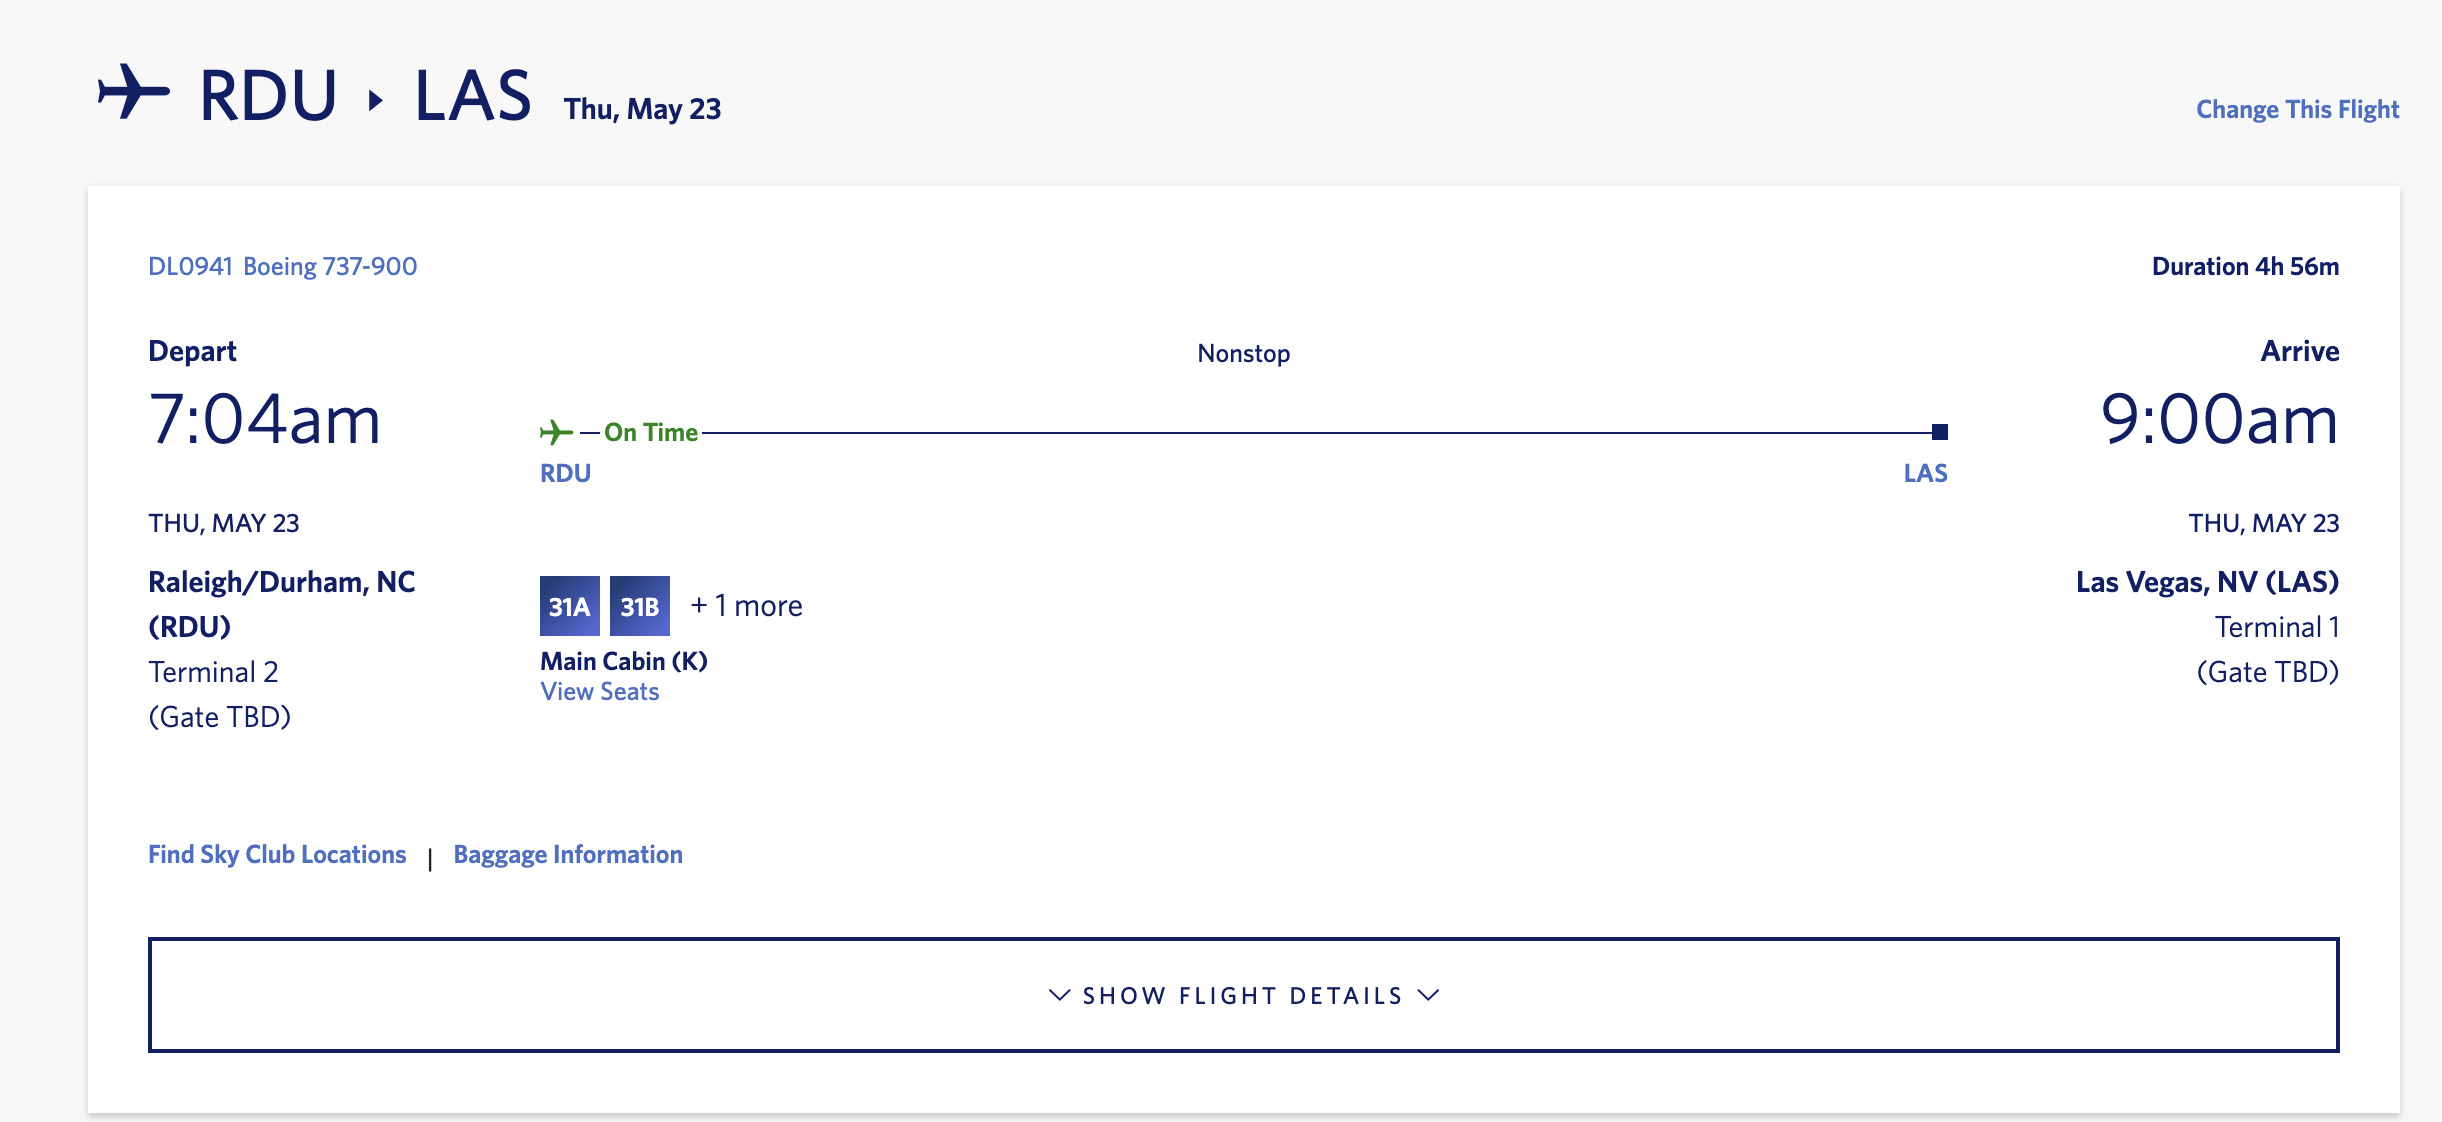
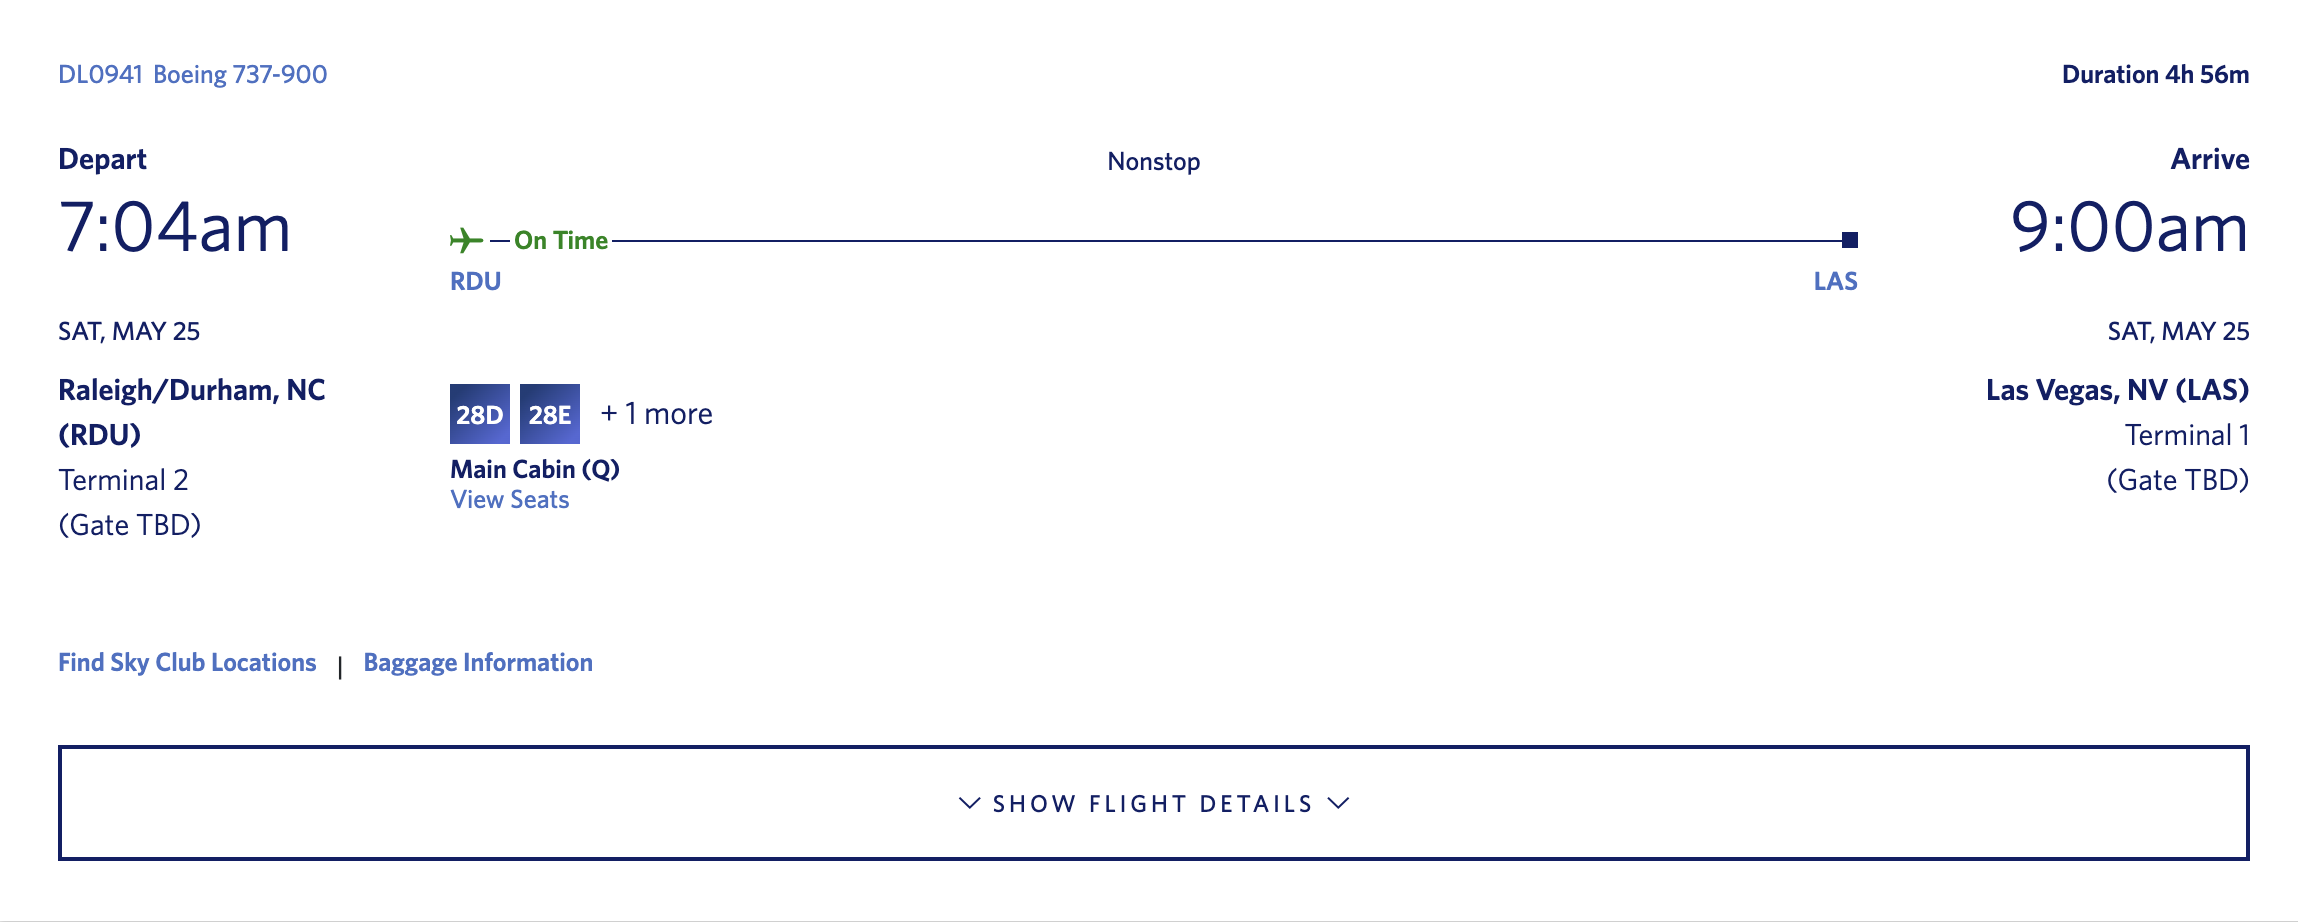
to-book

diff --git a/city/US_May_2024/index.html b/city/US_May_2024/index.html
@@ -162,14 +162,14 @@
       "2024-05-18": ["华尔街", "时代广场", "<a href=\"0518Dinner.png\">6:00 PM 53 餐馆</a>", "<a href=\"0515.png\">🏨 纽约时代广场希尔顿天宝酒店</a>"],
       "2024-05-19": ["<a href=\"LGA-RDU.png\">✈ 纽约 - 达勒姆 AA 1934</a><br>19:00 PM - 20:45 PM<br>座位 随机", "<a href=\"0519.png\">🏨 AC 达勒姆酒店</a>"],
       "2024-05-20": ["耳鼻喉科<br>11:00 AM - 12:00 PM", "听力测试<br>12:00 PM - 13:00 PM", "<a href=\"0519.png\">🏨 AC 达勒姆酒店</a>"],
-      "2024-05-21": ["博士口语考试<br>19:00 PM - 20:00 PM", "<a href=\"0519.png\">🏨 AC 达勒姆酒店</a>"],
-      "2024-05-22": ["耳鼻喉科<br>10:15 AM - 11:15 AM", "<a href=\"0519.png\">🏨 AC 达勒姆酒店</a>"],
-      "2024-05-23": ["<a href=\"RDU-LAS.png\">✈ 达勒姆 - 拉斯维加斯 DL 0941</a><br>7:04 AM - 9:00 AM<br>座位 31A 31B 31C", "<a href=\"0523.png\">🏨 拉斯维加斯名胜世界康莱德酒店</a>"],
-      "2024-05-24": ["待定", "<a href=\"0523.png\">🏨 拉斯维加斯名胜世界康莱德酒店</a>"],
-      "2024-05-25": ["待定", "<a href=\"0523.png\">🏨 拉斯维加斯名胜世界康莱德酒店</a>"],
-      "2024-05-26": ["待定", "<a href=\"0523.png\">🏨 拉斯维加斯名胜世界康莱德酒店</a>"],
-      "2024-05-27": ["待定", "<a href=\"0523.png\">🏨 拉斯维加斯名胜世界康莱德酒店</a>"],
-      "2024-05-28": ["<a href=\"LAS-IAD.png\">✈ 拉斯维加斯 - 华盛顿特区 UA 1961</a><br>13:15 PM - 20:52 PM<br>座位 27A 27B 27C", "<a href=\"0509.png\">🏨 喜来登瑞诗顿酒店<br>Sheraton Reston Hotel</a>"],
+      "2024-05-21": ["妇科门诊 13:00 PM", "博士口语考试<br>19:00 PM - 20:00 PM", "待定酒店 10108 McQueen Drive"],
+      "2024-05-22": ["耳鼻喉科<br>10:15 AM - 11:15 AM", "待定酒店 10108 McQueen Drive"],
+      "2024-05-23": ["待定酒店 10108 McQueen Drive"],
+      "2024-05-24": ["待定酒店 10108 McQueen Drive"],
+      "2024-05-25": ["<a href=\"RDU-LAS.png\">✈ 达勒姆 - 拉斯维加斯 DL 0941</a><br>7:04 AM - 9:00 AM<br>座位 31A 31B 31C", "待定酒店 10108 McQueen Drive"],
+      "2024-05-26": ["待定酒店 Las Vegas Strip"],
+      "2024-05-27": ["待定酒店 Las Vegas Strip"],
+      "2024-05-28": ["<a href=\"LAS-IAD.png\">✈ 拉斯维加斯 - 华盛顿特区 UA 1961</a><br>13:15 PM - 20:52 PM<br>座位 27A 27B 27C", "待定酒店 IAD Airport"],
       "2024-05-29": ["<a href=\"FCO-IAD.png\">✈ 华盛顿特区 - 罗马 UA 884</a><br>17:40 PM - 8:15 AM<sup>+1</sup><br>座位 11D 11L 33G"],
       "2024-06-04": ["<a href=\"FCO-IAD2.png\">✈ 罗马 - 华盛顿特区 UA 127</a><br>15:40 PM - 19:50 PM<br>座位 32K"],
     };
